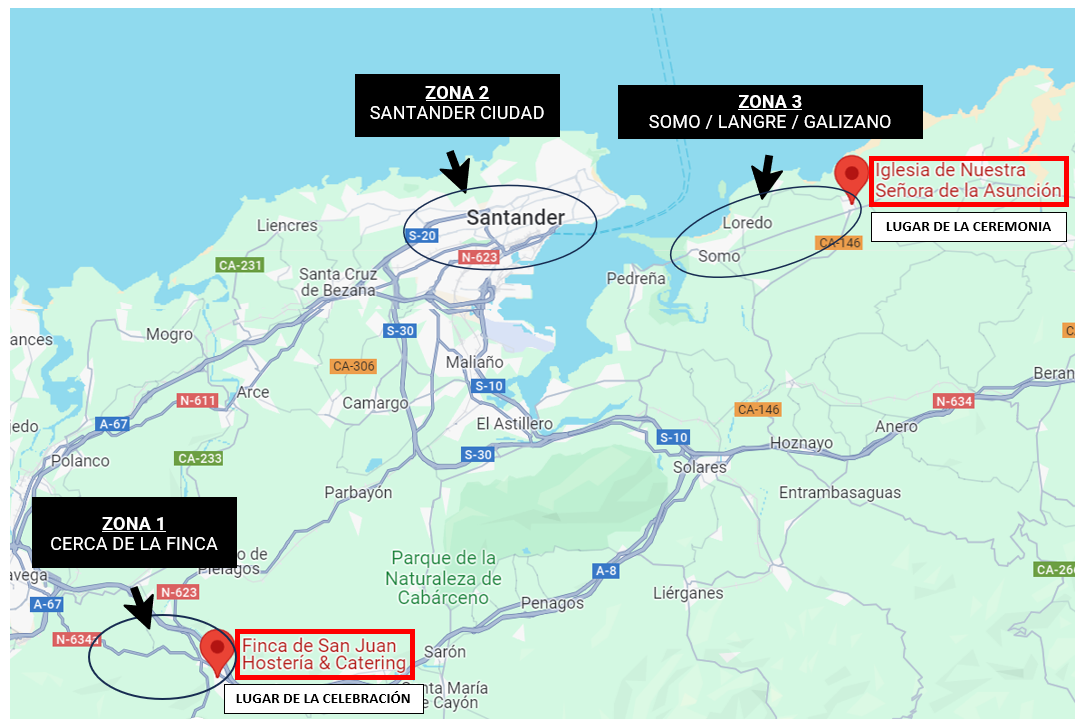
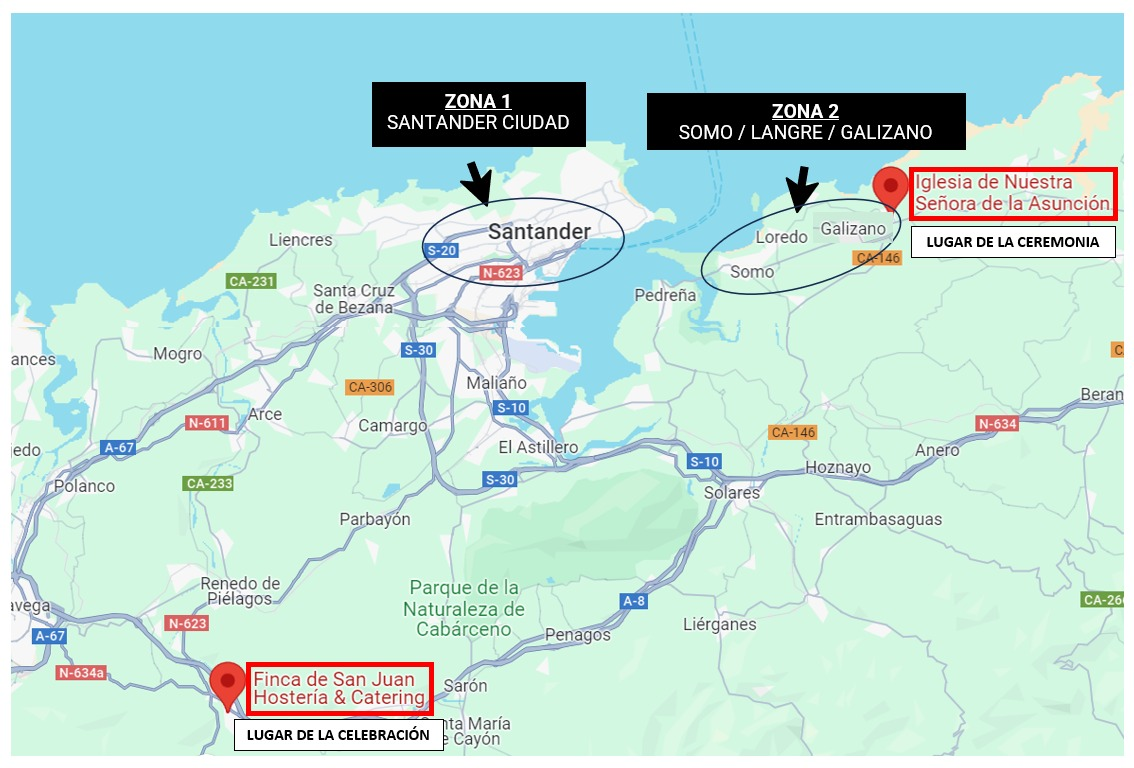
updates

diff --git a/src/constants/i18n-resources/es.ts b/src/constants/i18n-resources/es.ts
@@ -23,10 +23,11 @@ export default {
         <strong>Lugar de celebración</strong>: Finca de San Juan Hostería & Catering (<a style="text-decoration:underline;" rel="noreferrer" target="_blank" href="https://maps.app.goo.gl/ASTmheeSVEdpWMuu8">Barrio de San Juan, s/n, 39660 Villabanez, Cantabria</a>).
         
         Mientras llega el gran día, hemos creado esta página web para que podáis tener toda la información que necesitáis.
+
         Confirmadnos lo antes posible por favor, que así organizarlo todo nos será mucho más fácil.
         
         ¡Nos vemos muy pronto!
-        Cristina & Ricardo`,
+        Cris & Richi`,
       hotel_rec: "Nuestras recomendaciones de alojamiento",
     },
     church: {
@@ -40,8 +41,9 @@ export default {
     hotels: {
       title: "Alojamiento",
       zone1: "Zona 1: Alrededores de la finca",
-      zone2: "Zona 2: En la ciudad",
-      zone3: "Zona 3: Alrededores de la iglesia",
+      zone2: "Zona 1: En Santander ciudad",
+      zone3: "Zona 2: Alrededores de la iglesia",
+      info: "* Para reservar en el hotel Vijanera, llama a 942 505 373 y di que eres invitado de la boda de Cristina Bell & Ricardo Cerrillo",
     },
     buses: {
       title: "Autobuses",
@@ -55,7 +57,7 @@ export default {
         "Hemos recopilado una lista de servicios de taxi de la zona para su comodidad.",
     },
     gifts: {
-      title: `Gracias por estar a nuestro lado en un día tan importante para nosotros. 
+      title: `Gracias por formar parte de un día tan importante para nosotros. 
         Nuestro mejor regalo es que podáis venir, aún así, si queréis ayudarnos a empezar nuestra vida juntos, os lo agradeceremos siempre.`,
       int_transfer:
         "Si vas a realizar una transferencia internacional, también necesitarás esto",

diff --git a/src/constants/i18n-resources/en.ts b/src/constants/i18n-resources/en.ts
@@ -21,12 +21,14 @@ export default {
         <strong>Date</strong>: Friday July 5th, 2024.
         <strong>Time and Place</strong>: 5:00pm in Iglesia de Nuestra Señora de la Asunción (calle verdes 145, 39160, Galizano, Cantabria).
         <strong>Reception</strong>: Finca de San Juan Hostería & Catering (Barrio de San Juan, s/n, 39660 Villabanez, Cantabria).
+        <strong>Dress code</strong>: Formal (men: suit & tie)
 
         While we wait for this special day, Cristina's amazing brother James created this site to provide all the info you may need.
-        We will appreciate if you could please RSVP as soon as possible!
+        
+        We will appreciate if you could please RSVP <strong>before April 15th</strong>!
         
         See you soon!
-        Cristina & Ricardo`,
+        Cris & Richi`,
       hotel_rec: "Our hotel recommendations",
     },
     church: {
@@ -40,8 +42,9 @@ export default {
     hotels: {
       title: "Hotels",
       zone1: "Zone 1: Near the Celebration",
-      zone2: "Zone 2: In the City",
-      zone3: "Zone 3: Near the Church",
+      zone2: "Zone 1: In Santander City",
+      zone3: "Zone 2: Near the Church",
+      info: "* To reserve in hotel Vijanera (zone 2), call +34 942 505 373 and say you are a guest of the wedding of Cristina Bell & Ricardo Cerrillo",
     },
     buses: {
       title: "Buses",

diff --git a/src/pages/Contact.tsx b/src/pages/Contact.tsx
@@ -16,19 +16,19 @@ const Contact = ({ isMenuOpen }: { isMenuOpen: boolean }) => {
           src={Image}
         />
         <div className="absolute flex flex-col w-full self-end text-center items-center text-white">
-          <div className={"text-lg font-bold pb-5 w-fit"}>
+          <div className={"text-lg font-bold pb-5 w-fit px-6"}>
             {t("contact.title")}
           </div>
           <div className="flex flex-col gap-2">
             <div className="flex flex-col">
-              <span className="text-lg">Cristina</span>
+              <span className="text-lg">Cris</span>
               <span className="text-sm">Phone: +34 611 09 93 47</span>
               <span className="text-sm">
                 Email: cristina.bell.ssm@gmail.com
               </span>
             </div>
             <div className="flex flex-col">
-              <span className="text-lg">Ricardo</span>
+              <span className="text-lg">Richi</span>
               <span className="text-sm">Phone: +34 606 83 54 23</span>
               <span className="text-sm">Email: rcerrillo95@gmail.com</span>
             </div>

diff --git a/src/pages/Gifts.tsx b/src/pages/Gifts.tsx
@@ -14,20 +14,17 @@ const Gifts = ({ isMenuOpen }: { isMenuOpen: boolean }) => {
           "flex flex-1 flex-col gap-10  h-fit items-center whitespace-pre-line bg-off-white h-screen"
         }
       >
-        <img
-          className="relative h-[400px] brightness-75 rounded-2xl"
-          src={Image}
-        />
-        <div className="absolute flex flex-col w-full self-end text-center items-center text-white pt-5">
+        <img className="relative w-screen brightness-50 " src={Image} />
+        <div className="absolute flex flex-col w-full self-end text-center items-center text-white pt-5 top-1/4">
           <div
             className={classNames("text-sm pb-5", {
               "w-1/2": !isMobile,
-              "w-fit": isMobile,
+              "w-fit px-8": isMobile,
             })}
           >
             {t("gifts.title")}
           </div>
-          <div className="flex flex-col">
+          <div className="flex flex-col px-3">
             <div className="flex flex-col">
               <span className="text-xs font-bold">
                 IBAN: ES29 0073 0100 5105 9305 4980{" "}

diff --git a/src/pages/Celebration.tsx b/src/pages/Celebration.tsx
@@ -20,13 +20,10 @@ const Celebration = ({ isMenuOpen }: { isMenuOpen: boolean }) => {
             <span className={"text-xl font-bold "}>
               {t("celebration.title")}
             </span>
-            <a
-              className="text-lg font-medium flex flex-row gap-2 items-center "
-              href="https://www.fincadesanjuan.es/"
-            >
-              Finca de San Juan{" "}
-              <span className="underline text-xs">{t("common.view")}</span>
-            </a>
+            <div className="flex flex-col">
+              <span>Finca de San Juan</span>
+              <span>Hosteria & Catering</span>
+            </div>
           </div>
           <div className="flex flex-col gap-2">
             <span className="text-xl font-bold">

diff --git a/src/pages/Hotels.tsx b/src/pages/Hotels.tsx
@@ -9,11 +9,11 @@ const Hotels = ({ isMenuOpen }: { isMenuOpen: boolean }) => {
 
   return (
     !isMenuOpen && (
-      <div className="flex flex-col flex-1 gap-10 bg-off-white h-screen">
+      <div className="flex flex-col flex-1 gap-5 bg-off-white h-screen">
         <div className={"font-bold  px-5 pt-5 text-2xl"}>
           {t("hotels.title")}
         </div>
-        <HotelGrid title={t("hotels.zone1")} zone={1} />
+        <div className="text-sm px-5">{t("hotels.info")}</div>
         <HotelGrid title={t("hotels.zone2")} zone={2} />
         <HotelGrid title={t("hotels.zone3")} zone={3} />
       </div>

diff --git a/src/components/layout/Navbar.tsx b/src/components/layout/Navbar.tsx
@@ -27,7 +27,7 @@ const Navbar = ({ isMenuOpen, setIsMenuOpen }: Props) => {
       )}
     >
       <Link to={"/"} className={"text-2xl font-extrabold"}>
-        Richi & Cris
+        Cris & Richi
       </Link>
       <div className="flex flex-row gap-4">
         <select defaultValue={"es"} onChange={onChangeLang}>
